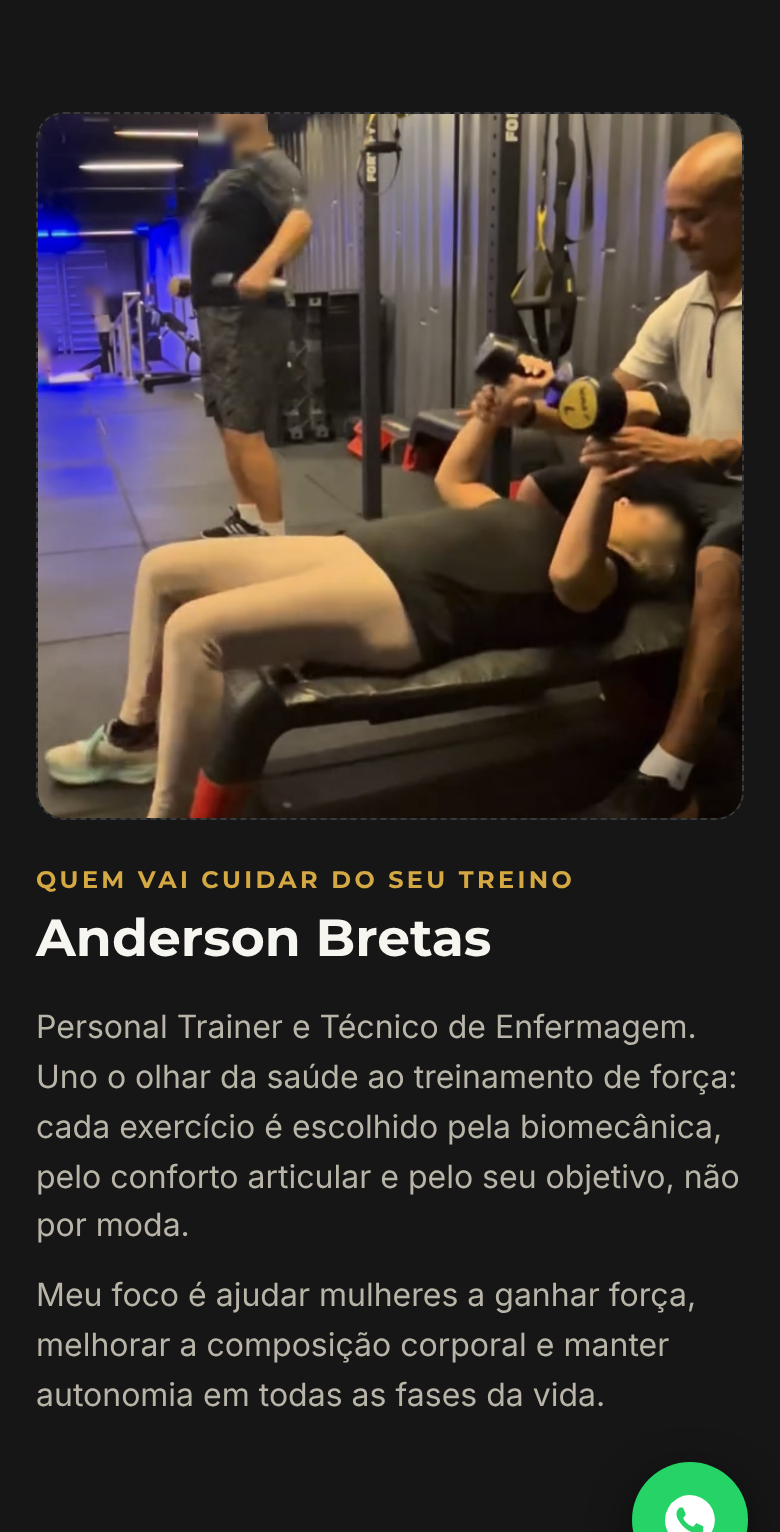
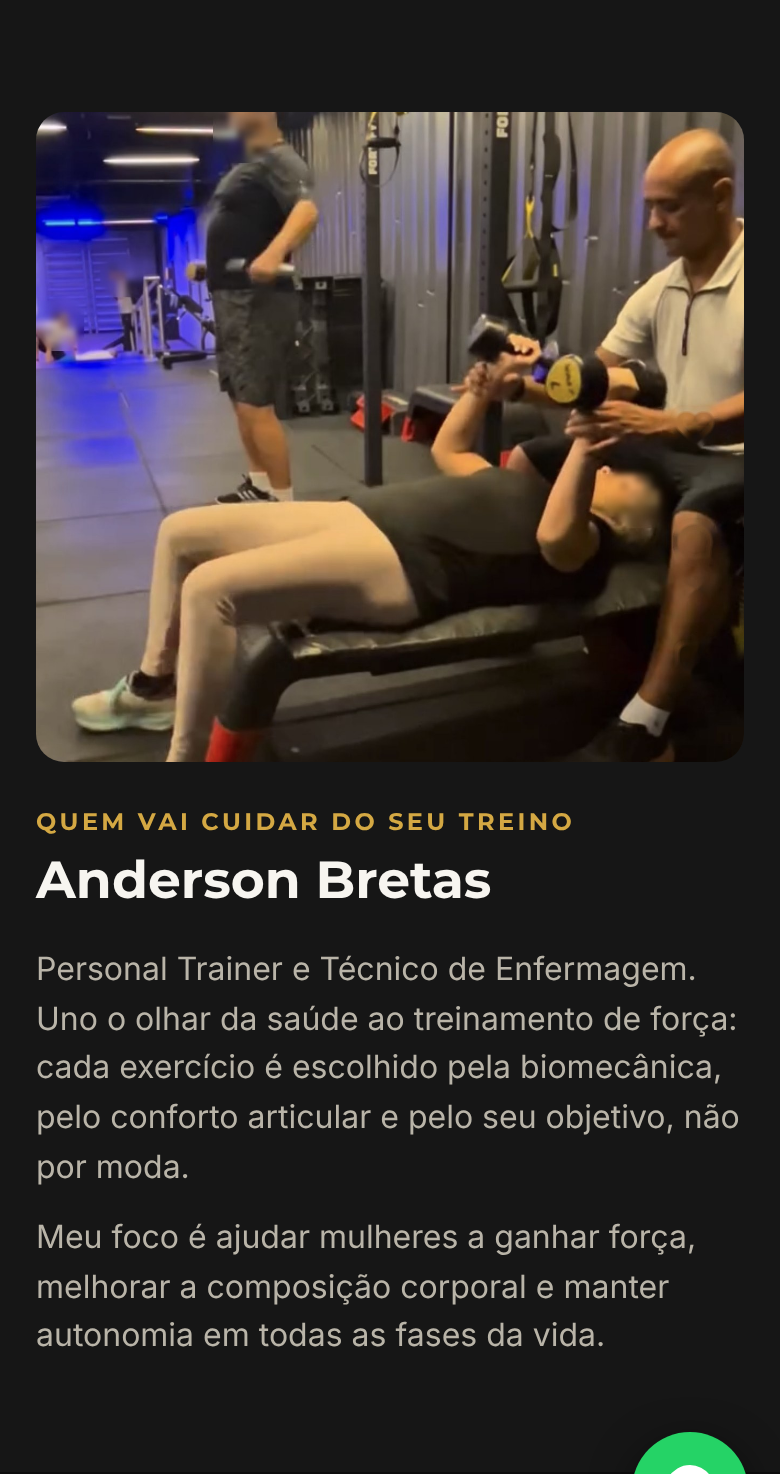
Mostra a foto em atendimento inteira, sem corte
Claude-Session: https://claude.ai/code/session_01GoY5VrWDzUqJDmMf4NugFR

Changed region(s): [[0.0308, 0.0624, 0.9538, 0.6242], [0.0308, 0.6554, 0.9538, 0.9362], [0.8, 0.9362, 0.9538, 1.0]]

diff --git a/landing/index.html b/landing/index.html
@@ -110,6 +110,8 @@
   /* sobre */
   .about .ph{aspect-ratio:1/1;margin-bottom:22px}
   .about .ph:has(img.missing){display:none}
+  .about .ph:has(img:not(.missing)){border:0;aspect-ratio:auto}
+  .about .ph img{height:auto}
   .about p{color:var(--muted);margin-top:10px}
 
   /* faq */
